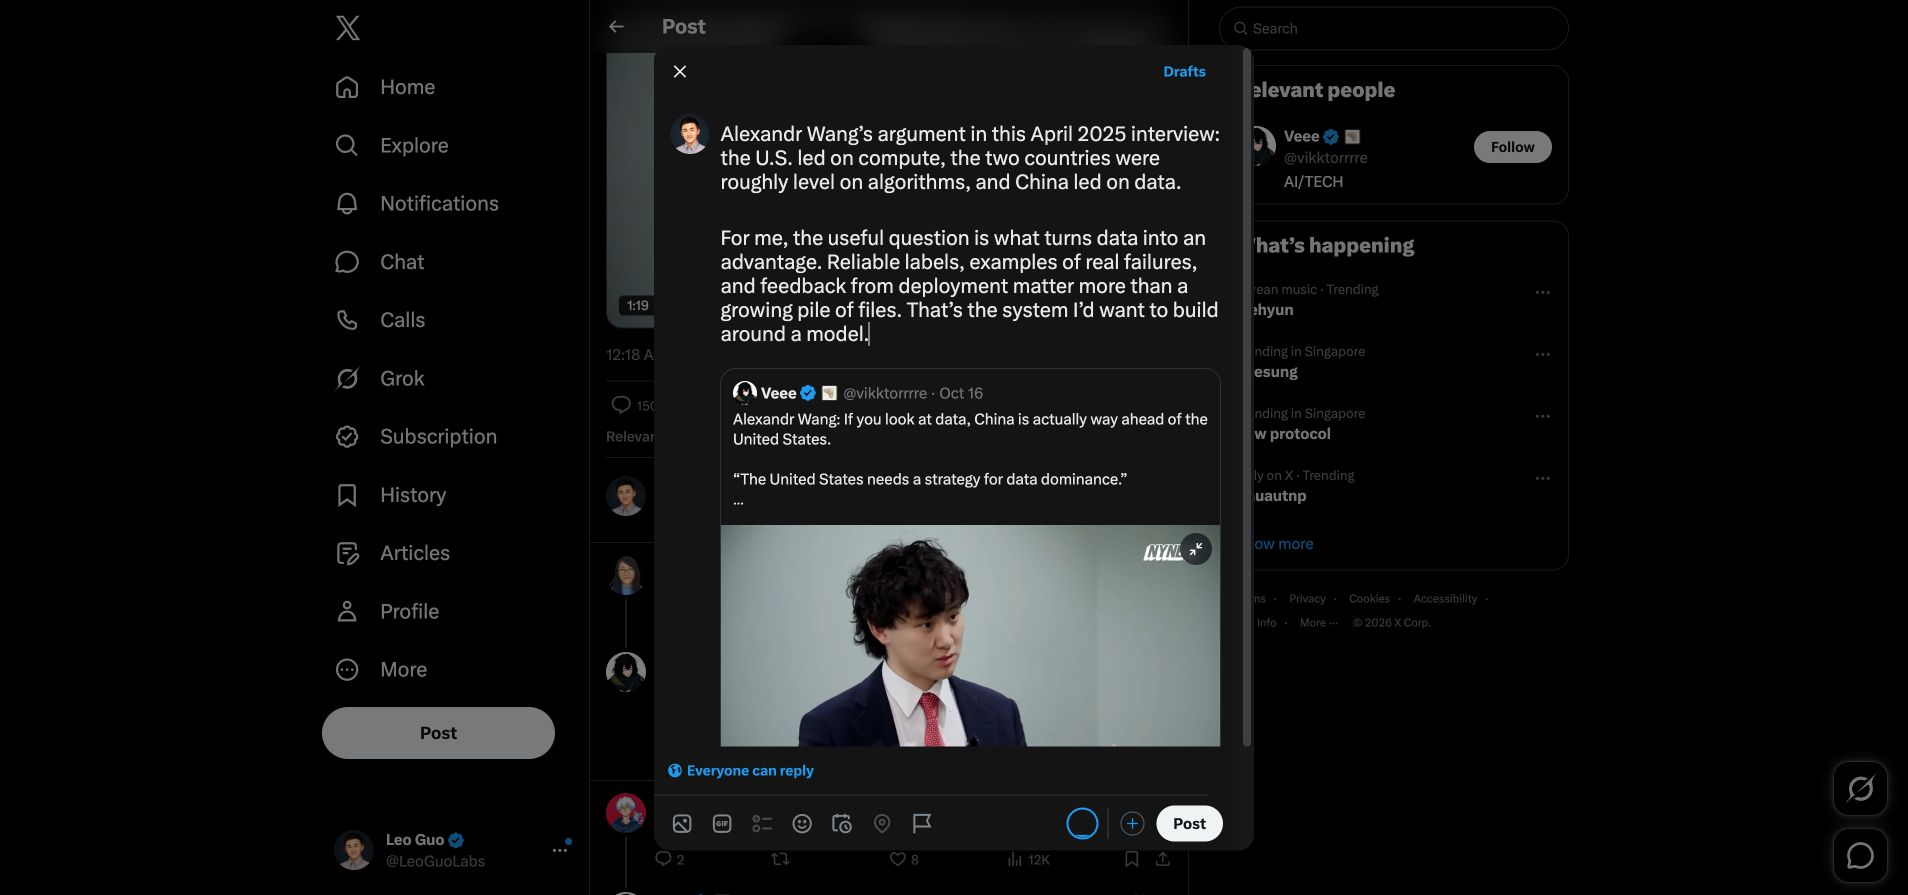
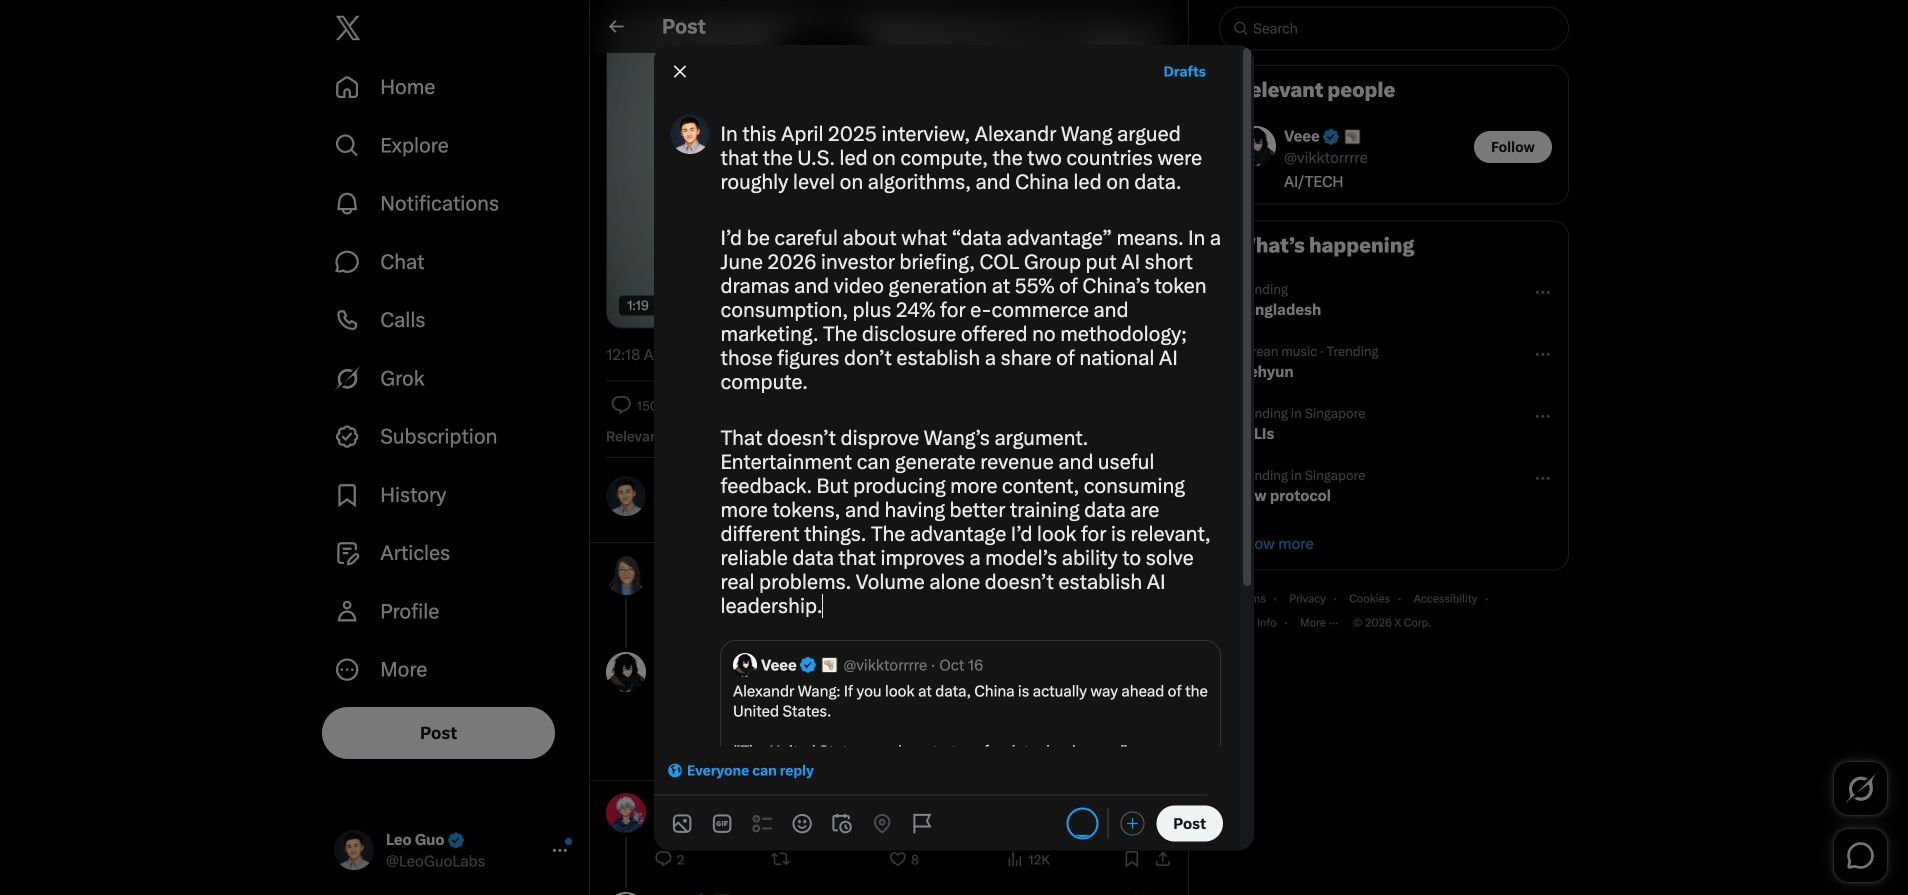
Clarify token consumption claims in Wang data commentary

diff --git a/output/wang-data-dominance/review/index.html b/output/wang-data-dominance/review/index.html
@@ -1,3 +1,5 @@
-<!doctype html><html lang="en"><meta charset="utf-8"><meta name="viewport" content="width=device-width,initial-scale=1"><title>LeoGuoLabs · Wang review</title><style>body{margin:0;background:#FDFBF7;color:#1A4A3A;font:18px/1.65 system-ui,sans-serif}main{max-width:860px;margin:48px auto;padding:0 24px}h1{font-size:28px;font-weight:600;line-height:1.3}p{white-space:pre-wrap}small{color:#426454}video{display:block;width:100%;border-radius:0;margin:24px 0}a{color:#1A4A3A}footer{padding:24px 0;border-top:1px solid #D4AF37}</style><main><small>REVIEW · @LeoGuoLabs · Native Quote Post</small><h1>AI competition and the value of data</h1><p>Alexandr Wang’s argument in this April 2025 interview: the U.S. led on compute, the two countries were roughly level on algorithms, and China led on data.
+<!doctype html><html lang="en"><meta charset="utf-8"><meta name="viewport" content="width=device-width,initial-scale=1"><title>LeoGuoLabs · Wang review</title><style>body{margin:0;background:#FDFBF7;color:#1A4A3A;font:18px/1.65 system-ui,sans-serif}main{max-width:860px;margin:48px auto;padding:0 24px}h1{font-size:28px;font-weight:600;line-height:1.3}p{white-space:pre-wrap}small{color:#426454}video{display:block;width:100%;border-radius:0;margin:24px 0}a{color:#1A4A3A}footer{padding:24px 0;border-top:1px solid #D4AF37}</style><main><small>REVIEW · @LeoGuoLabs · Native Quote Post</small><h1>AI competition and the value of data</h1><p>In this April 2025 interview, Alexandr Wang argued that the U.S. led on compute, the two countries were roughly level on algorithms, and China led on data.
 
-For me, the useful question is what turns data into an advantage. Reliable labels, examples of real failures, and feedback from deployment matter more than a growing pile of files. That’s the system I’d want to build around a model.</p><video controls playsinline preload="metadata" poster="poster.jpg" src="source-video.mp4"></video><small>Full selected source clip · 1:20 · 1920 × 1080 · NYNext watermark preserved</small><p><a href="https://x.com/vikktorrrre/status/2110767343483637947">Exact Quote target: Veee / @vikktorrrre</a></p><footer><small>Review note: The original NYNext interview was published on April 11, 2025. The X source re-shares an excerpt. The post remains unsubmitted pending final approval.</small></footer></main></html>
+I’d be careful about what “data advantage” means. In a June 2026 investor briefing, COL Group put AI short dramas and video generation at 55% of China’s token consumption, plus 24% for e-commerce and marketing. The disclosure offered no methodology; those figures don’t establish a share of national AI compute.
+
+That doesn’t disprove Wang’s argument. Entertainment can generate revenue and useful feedback. But producing more content, consuming more tokens, and having better training data are different things. The advantage I’d look for is relevant, reliable data that improves a model’s ability to solve real problems. Volume alone doesn’t establish AI leadership.</p><video controls playsinline preload="metadata" poster="poster.jpg" src="source-video.mp4"></video><small>Full selected source clip · 1:20 · 1920 × 1080 · NYNext watermark preserved</small><p><a href="https://x.com/vikktorrrre/status/2110767343483637947">Exact Quote target: Veee / @vikktorrrre</a></p><footer><small>Review note: The original NYNext interview was published on April 11, 2025. The X source re-shares an excerpt. The post remains unsubmitted pending final approval.</small></footer></main></html>

diff --git a/output/wang-data-dominance/research/token-share-verification.md b/output/wang-data-dominance/research/token-share-verification.md
@@ -1,0 +1,29 @@
+# Verification of the added token-consumption claim
+
+Checked 2026-10-18. This revises the existing draft; no publication was authorized or performed.
+
+## Source chain and exact scope
+
+- Matching news headline: Jiemian, https://www.jiemian.com/article/15193592.html . Some headlines use compute and R&D terminology that does not match the underlying categories.
+- Underlying issuer document: COL Group / 中文在线集团股份有限公司, investor-relations activity record 2026-004. Meetings June 1–2, 2026; record dated June 3, 2026.
+- Issuer-document PDF (hosted copy linked by the disclosure aggregator): https://infonotice.sylapp.cn/LC_NotTextAnnouncement/2026/06/03/833854873288.PDF
+- Full HTML copy: https://www.9fzt.com/detail/sz_300364_9_89bdb29f210a09c8a659efe60930de16.html
+- Section III, PDF pages 2–3: AI short dramas and video generation 55%; e-commerce and marketing 24%; software development 15%. Measure is token consumption. The document asserts domestic all-token coverage but does not disclose dataset, sample coverage, time window or cross-model/modality normalization methodology. Do not present these figures as independently verified national statistics.
+- 55 + 24 = 79 percent. This may explain the user's recollection of over 70 percent, but that inference is not confirmation of the particular report they saw. E-commerce/marketing is not identical to entertainment short video.
+- Software development is not equivalent to all scientific or industrial R&D. The 15 percent figure must not be described as all R&D.
+- The disclosure does not establish a percentage of total national AI compute or a training-versus-inference allocation. Token use cannot by itself establish training-data quality or frontier capability.
+- Company itself operates in digital entertainment; the figures are attributed to the company, not an independent census. Do not assert it measures only COL's own platform: the document does not say that.
+- PDF pages 2–3 visually inspected; all 8 pages read as extracted text. No methodology or supporting statistical appendix was found; attachment list says none.
+
+## Wang: avoid constructing a stronger claim than he made
+
+- Publisher transcript: https://www.linkedin.com/posts/new-york-post_at-just-28-scale-ai-ceo-alexandr-wang-warns-activity-7316497394009821184-P4r4 . Wang's April 2025 comparison addresses compute, algorithms and data together. It is his historical assessment, not a current measured ranking.
+- Wang's own September 24, 2024 interview: https://a16z.com/frontier-data-foundries-alex-wang-scale-ai/ . He explicitly stresses high-quality task-relevant data and measuring model weaknesses to identify which data to add. He also says much enterprise data is not relevant, while some is highly valuable.
+- Editorial conclusion: data volume alone is insufficient evidence of overall AI leadership; the token-consumption report does not disprove Wang's three-pillar thesis. Entertainment can produce commercial value and feedback. Its share does not show resources are universally wasted or that research cannot progress.
+
+## Revision and preserved assets
+
+- V1 draft, publication record and composer evidence retained under versions/v1/.
+- Existing full 80-second clip from the same ongoing task reused; no media replacement, editing or additional download was required.
+- Native Quote target remains https://x.com/vikktorrrre/status/2110767343483637947 .
+- Version 2 English text and Chinese review translation are saved; final content review remains pending.

diff --git a/output/wang-data-dominance/research/verification.md b/output/wang-data-dominance/research/verification.md
@@ -31,3 +31,11 @@
 - Minimal review server serves only review/, with relative symlinks to the two media assets. Current LAN URL http://172.16.10.59:8768/ returned HTTP 200 locally; actual phone access was not tested.
 - Desktop layout and 390x844 viewport checked. Temporary viewport override reset. No clipping/horizontal overflow observed in reviewed layout.
 - Pending final content approval under AGENTS.md. No public post URL exists for this task.
+
+## Version 2 revision, 2026-10-18
+
+- Added company-attributed token-consumption figures, no methodology qualification, and distinction from national compute and training data. Full evidence: token-share-verification.md.
+- Revised 825-character draft accepted by the same native Quote composer. Exact Draft.js block text matches post-en.txt; Post enabled; @LeoGuoLabs visible; selected Veee target retained; no submission.
+- V1 evidence archived under versions/v1/. Current composer-ready.png and composer-check.json describe V2.
+- Same source clip checksum reverified; original decode/frame/playback checks reused from earlier in this ongoing task. No new playback claim.
+- Review server restored after connection refusal; current LAN address rechecked and page HTTP 200 with V2 content. Full-page review screenshot: review-v2.png. Phone access not tested.
